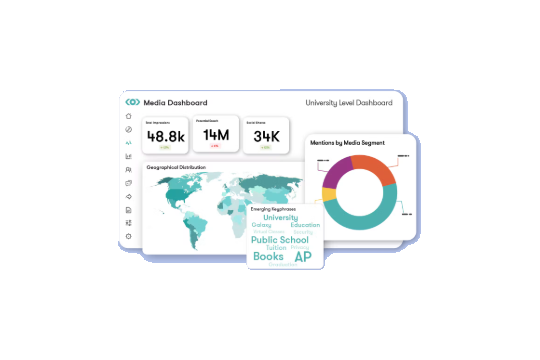
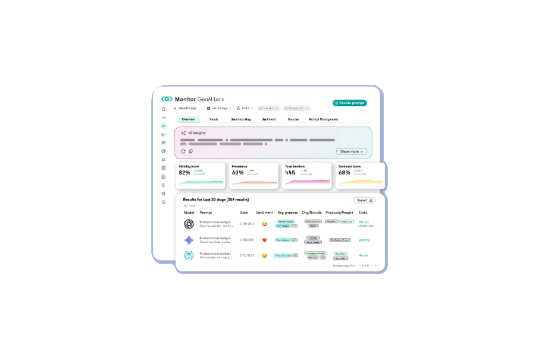
Clickable sliders, move AI accuracy slide earlier, update credits and Meltwater text
Claude-Session: https://claude.ai/code/session_01VctHjMP7txnqP7GLp3r3E1

Changed region(s): [[0.2074, 0.2139, 0.8, 0.7639]]

diff --git a/src/components/Projects/Projects.tsx b/src/components/Projects/Projects.tsx
@@ -12,7 +12,7 @@ const Projects = () => {
       </h2>
       <div className="md:flex md:space-x-10 lg:space-x-24 mt-10 w-[80%] md:w-full">
         <div className="relative mb-14 md:mb-0 md:w-2/4">
-          <MeltwaterSlider />
+          <MeltwaterSlider href="https://www.meltwater.com/en/product-tours" />
           <div className="py-4">
             <a
               href="https://www.meltwater.com/en/product-tours"
@@ -26,7 +26,8 @@ const Projects = () => {
               Media, social, and influencer intelligence platform used by PR
               and marketing teams worldwide. I worked on the Newsletters
               product, the builder that turns media coverage into branded
-              email digests.
+              email digests, and also collaborated on the tools teams use to
+              work with influencers.
             </p>
             <p className="text-sm text-zinc-500 mt-2">
               Screenshots from Meltwater's public product tours. All rights
@@ -36,7 +37,7 @@ const Projects = () => {
         </div>
 
         <div className="relative mb-14 md:mb-0 md:w-2/4">
-          <SofiaSlider />
+          <SofiaSlider href="https://mwm.ai/apps/sofia/1463424996" />
           <div className="py-4">
             <a
               href="https://mwm.ai/apps/sofia/1463424996"
@@ -53,8 +54,8 @@ const Projects = () => {
               Sofía Salud team.
             </p>
             <p className="text-sm text-zinc-500 mt-2">
-              Screenshots from the official App Store listing, via MWM
-              Intelligence. All rights belong to Sofía Salud.
+              Screenshots from the official App Store listing. All rights
+              belong to Sofía Salud.
             </p>
             <div className="flex gap-3 mt-4">
               <a

diff --git a/src/components/Projects/MeltwaterSlider.tsx b/src/components/Projects/MeltwaterSlider.tsx
@@ -20,15 +20,15 @@ const titles = [
   "AI assistant for PR teams",
   "Influencer discovery",
   "Influencer campaign analytics",
+  "AI response accuracy check",
   "Media coverage dashboard",
   "Media relations & outreach",
   "Brand trends across AI answers",
-  "AI response accuracy check",
 ];
 
 const INTERVAL_MS = 3500;
 
-const MeltwaterSlider = () => {
+const MeltwaterSlider = ({ href }: { href?: string }) => {
   const [index, setIndex] = useState(0);
   const [paused, setPaused] = useState(false);
 
@@ -74,8 +74,18 @@ const MeltwaterSlider = () => {
         </div>
       ))}
 
+      {href && (
+        <a
+          href={href}
+          target="_blank"
+          rel="noopener noreferrer"
+          aria-label="Open Meltwater project page"
+          className="absolute inset-0 z-10"
+        />
+      )}
+
       {screens.length > 1 && (
-        <div className="absolute bottom-3 left-0 right-0 flex justify-center gap-1.5">
+        <div className="absolute z-20 bottom-3 left-0 right-0 flex justify-center gap-1.5">
           {screens.map((src, i) => (
             <button
               key={src}

diff --git a/src/components/Projects/SofiaSlider.tsx b/src/components/Projects/SofiaSlider.tsx
@@ -53,7 +53,7 @@ const captions = [
 
 const INTERVAL_MS = 4000;
 
-const SofiaSlider = () => {
+const SofiaSlider = ({ href }: { href?: string }) => {
   const [index, setIndex] = useState(0);
   const [paused, setPaused] = useState(false);
 
@@ -116,8 +116,18 @@ const SofiaSlider = () => {
         ))}
       </div>
 
+      {href && (
+        <a
+          href={href}
+          target="_blank"
+          rel="noopener noreferrer"
+          aria-label="Open Sofía project page"
+          className="absolute inset-0 z-10"
+        />
+      )}
+
       {screens.length > 1 && (
-        <div className="absolute bottom-3 right-4 md:right-8 flex gap-1.5">
+        <div className="absolute z-20 bottom-3 right-4 md:right-8 flex gap-1.5">
           {screens.map((src, i) => (
             <button
               key={src}
